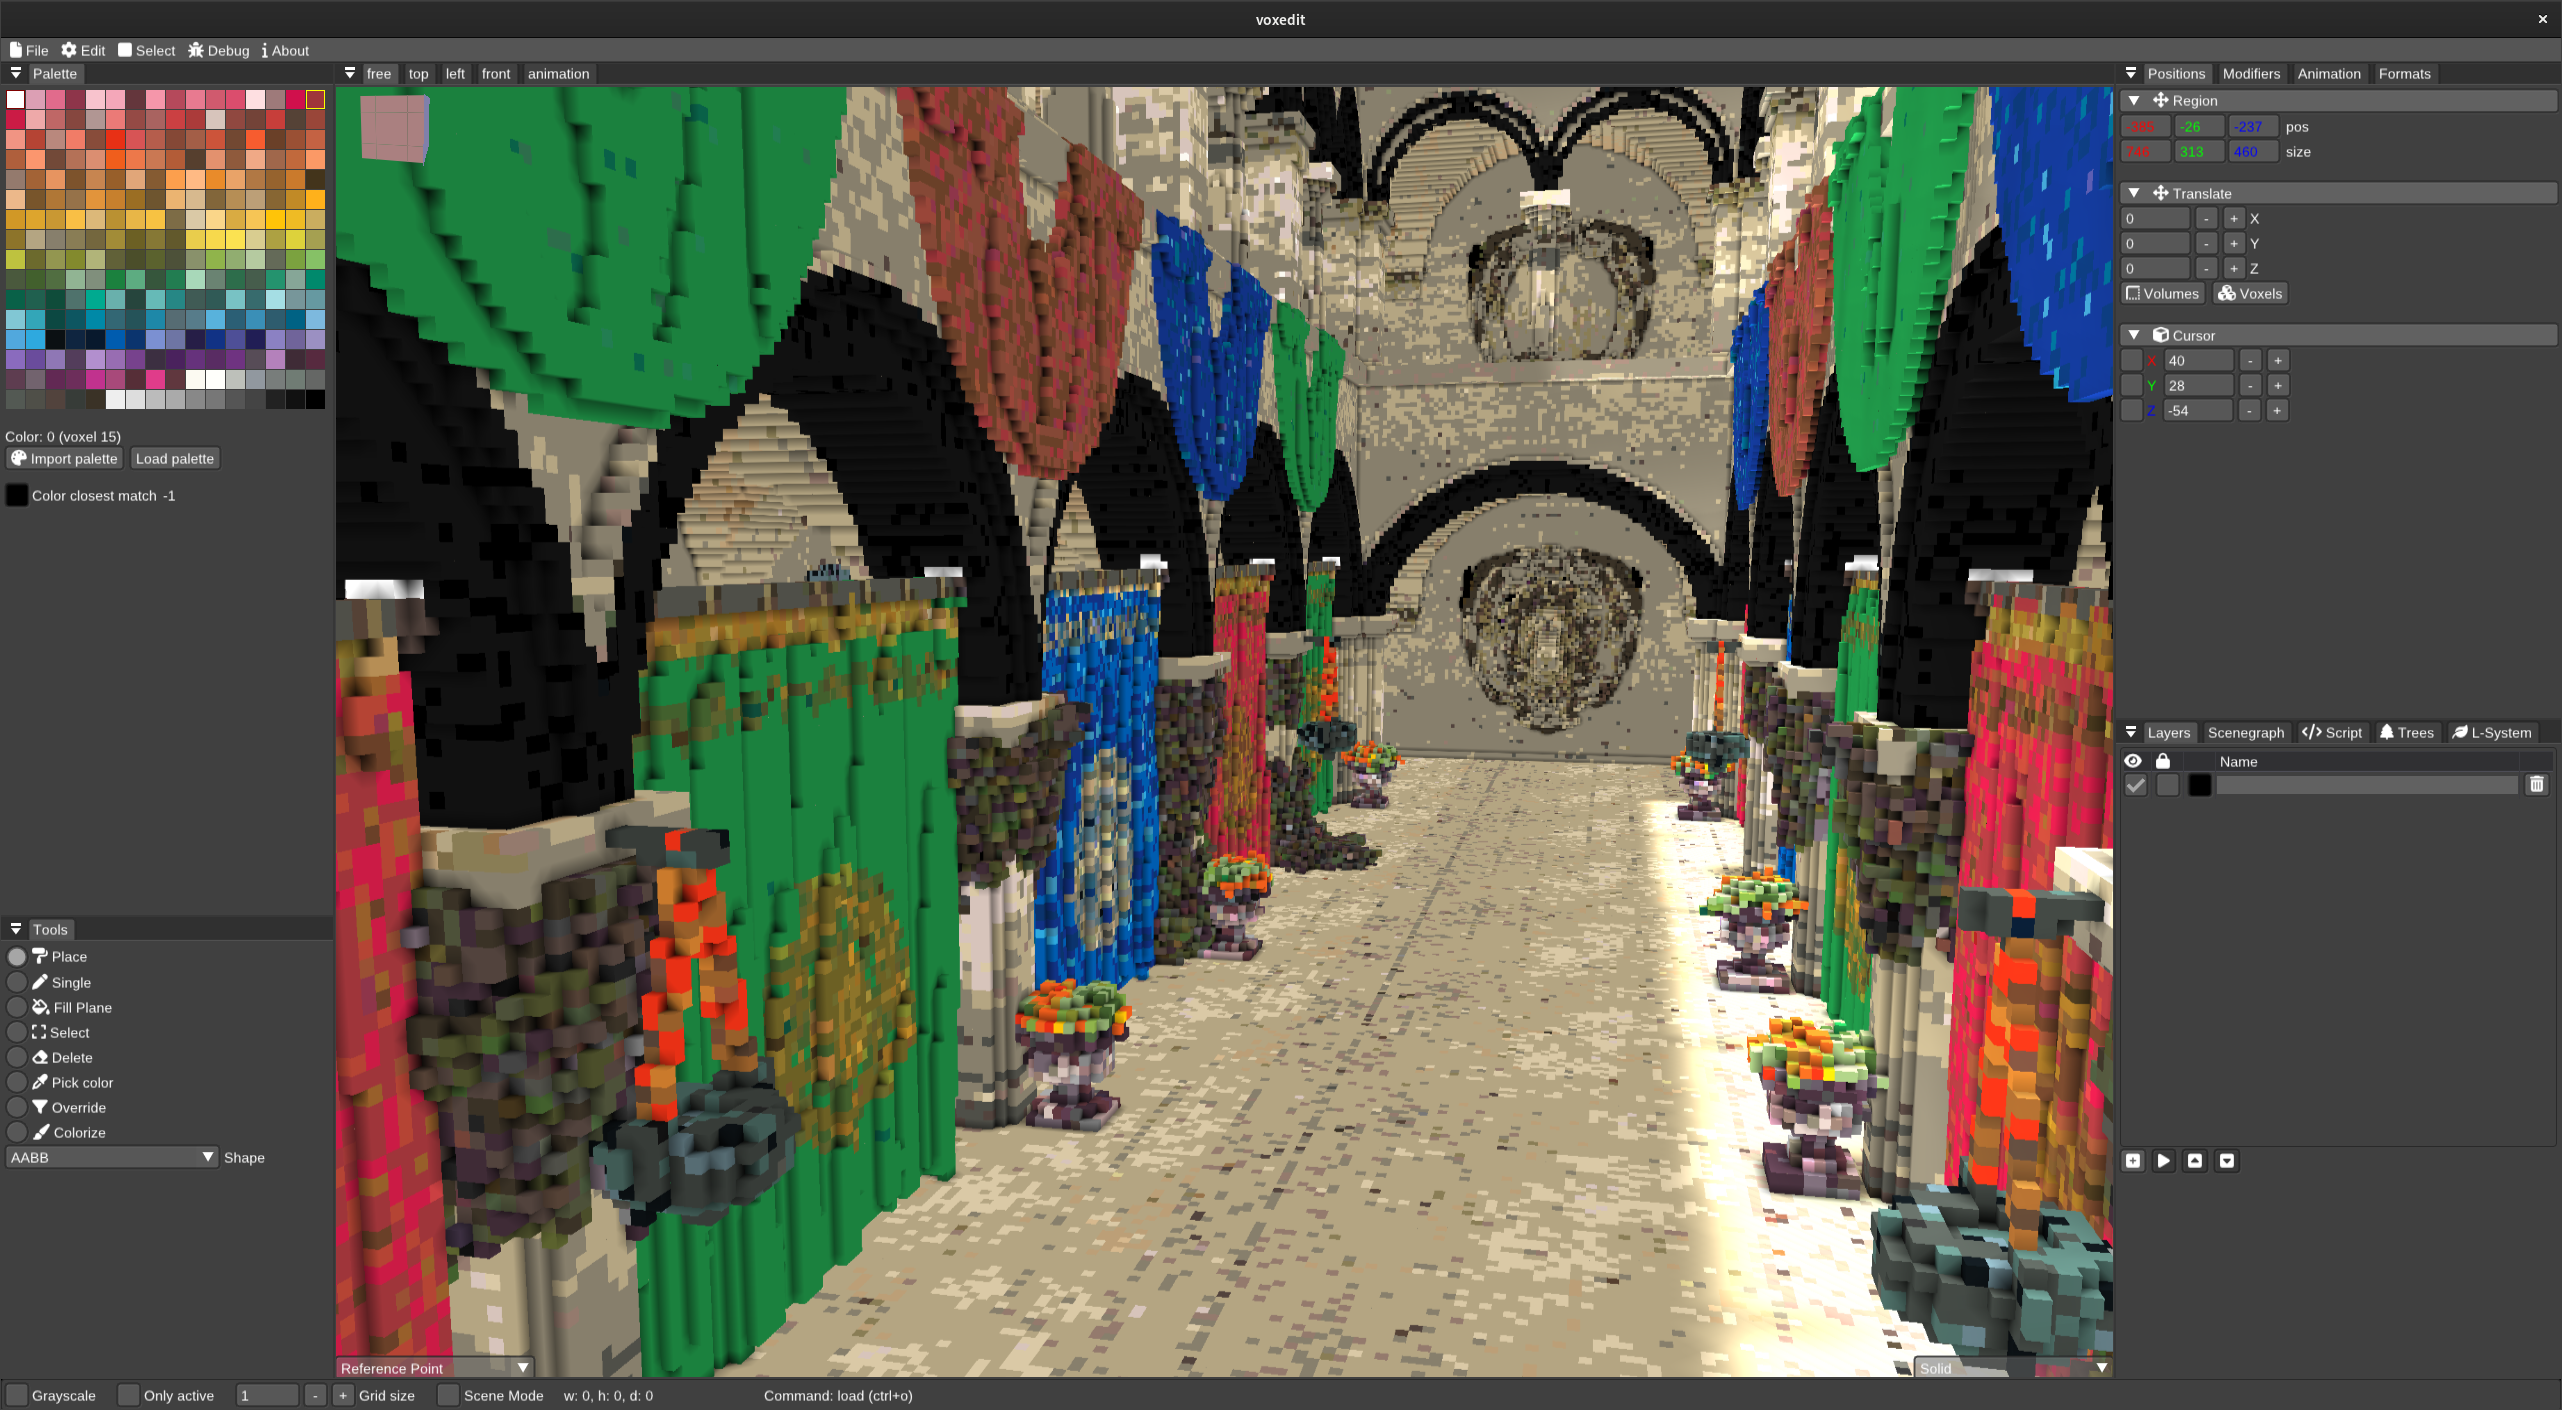
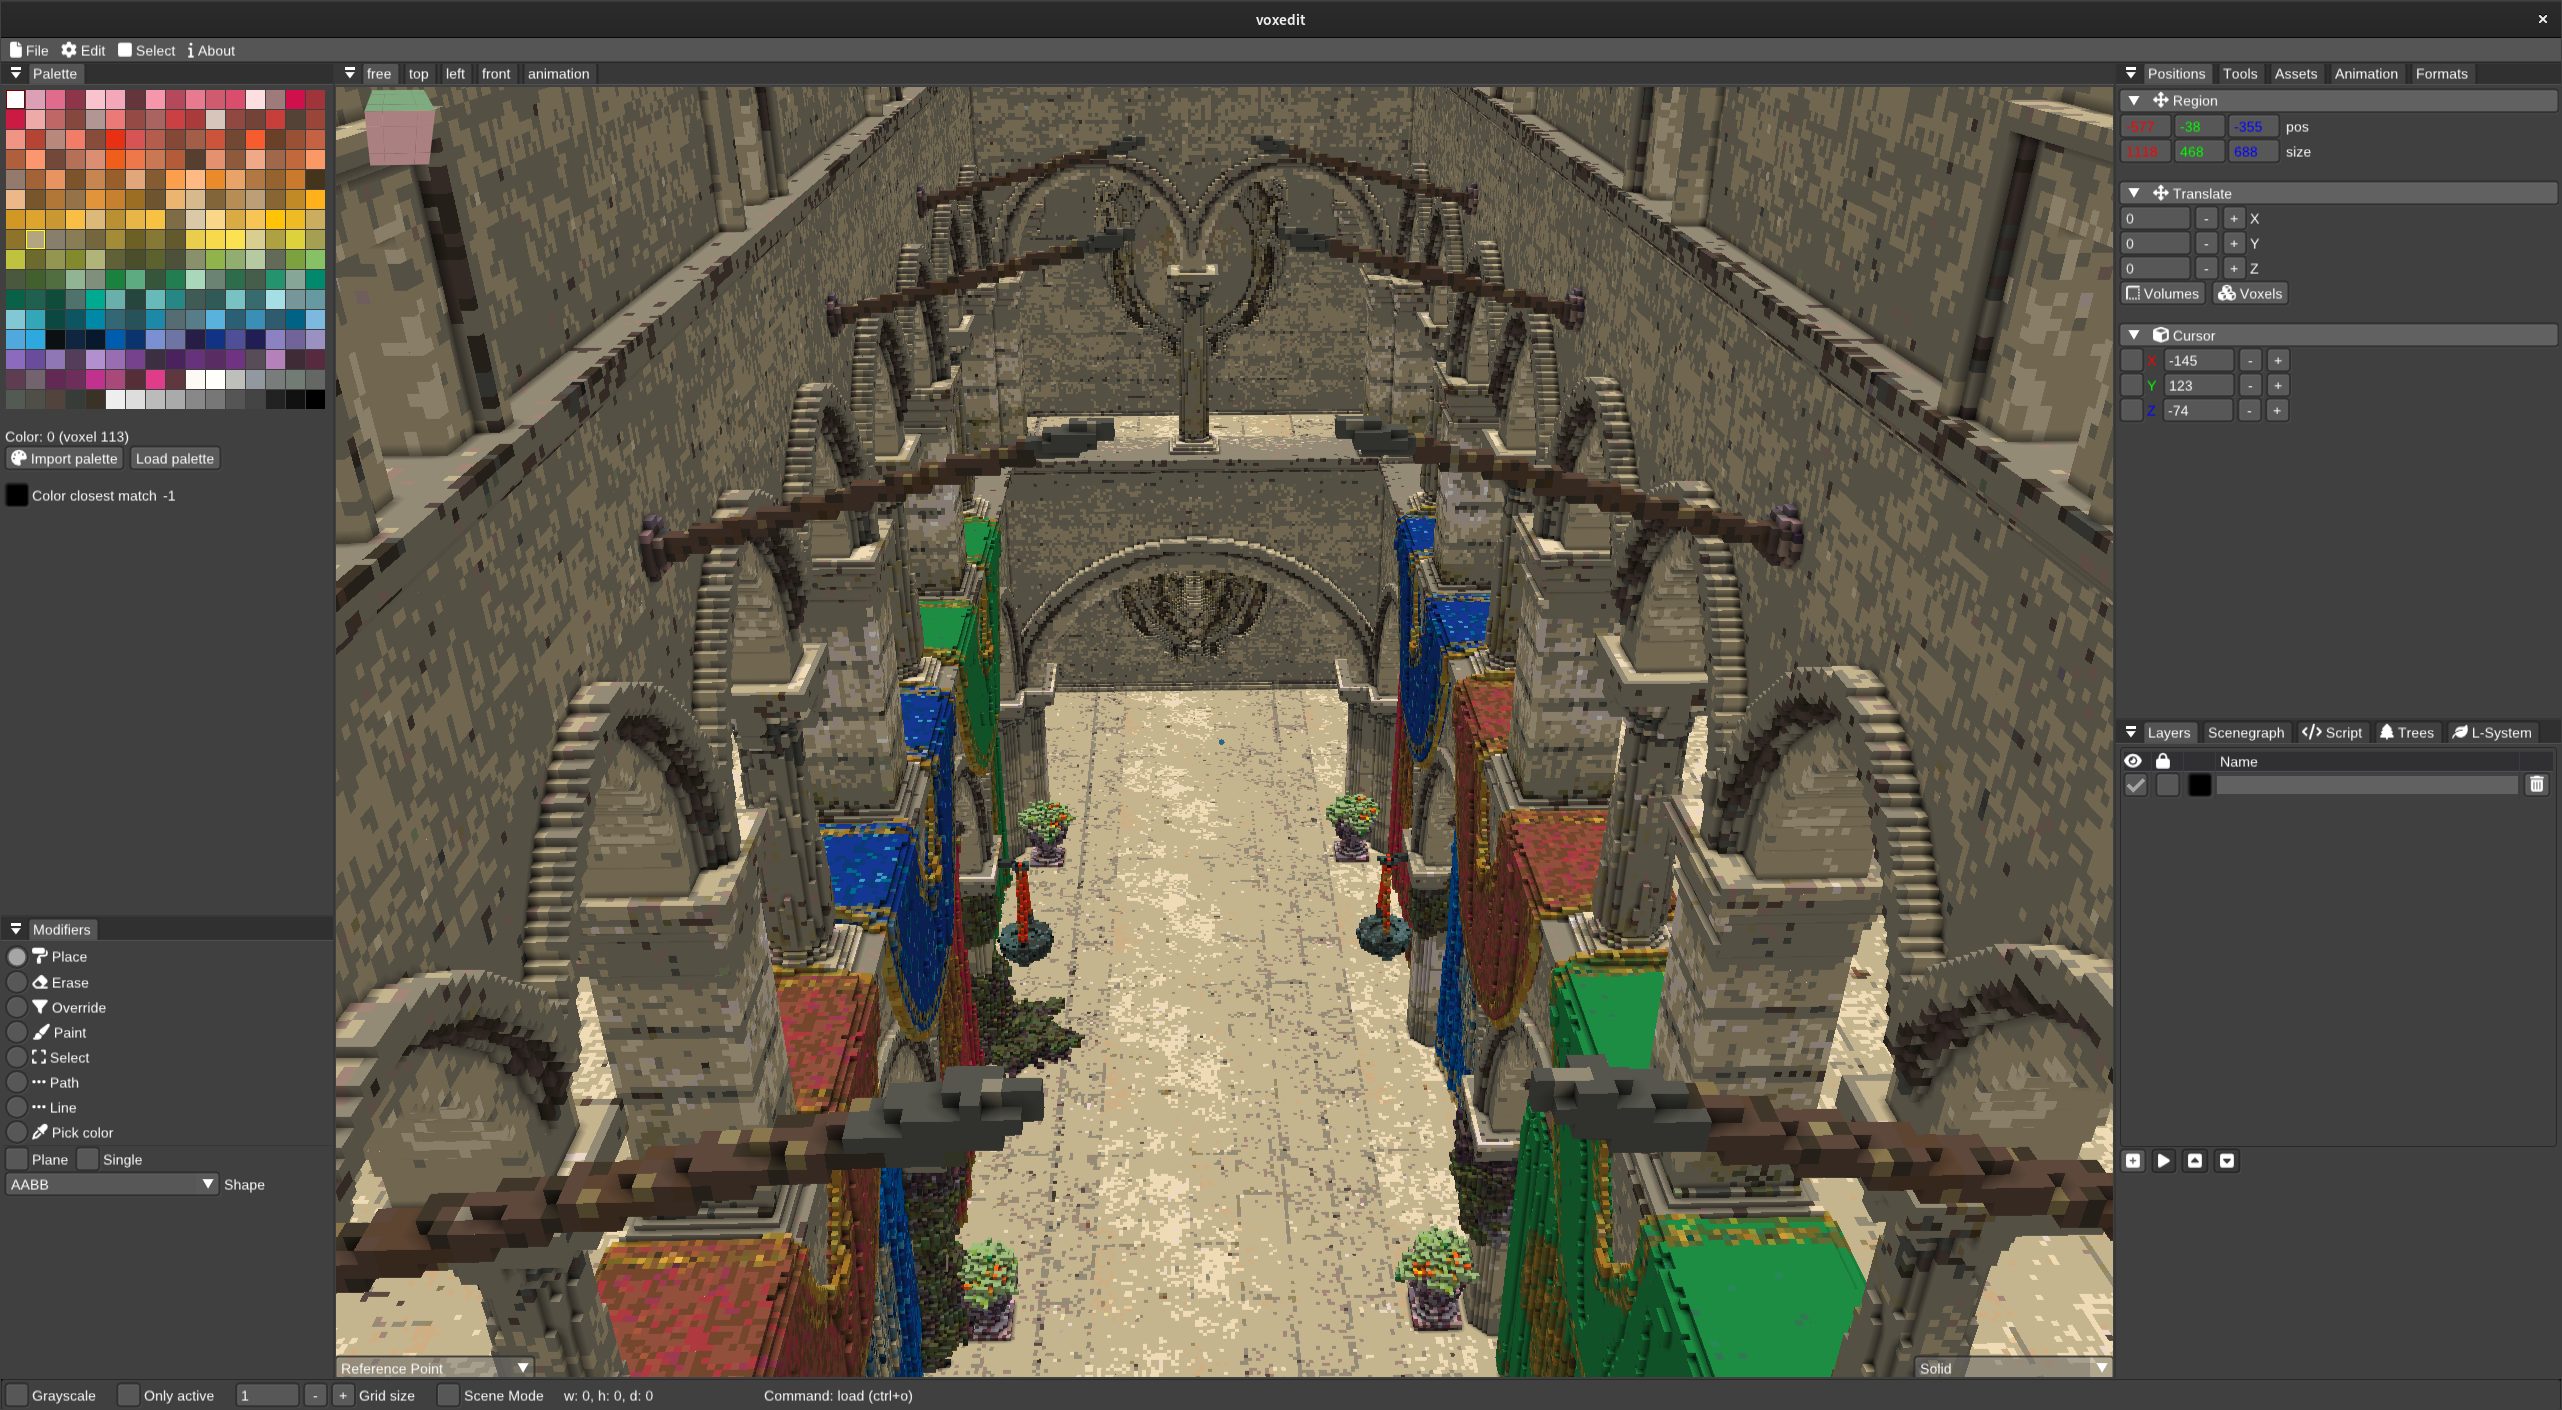
Updated screenshot

diff --git a/README.md b/README.md
@@ -12,8 +12,7 @@ Voxelized with [vengi-voxconvert](https://github.com/mgerhardy/vengi) 0.0.21-dev
 
 There are still a few texture lookup errors somewhere hidden - but all in all the result is quite nice.
 
-![image](sponza1.png)
-![image](sponza2.png)
+![image](sponza-scale-0.3.png)
 
 # Links
 
